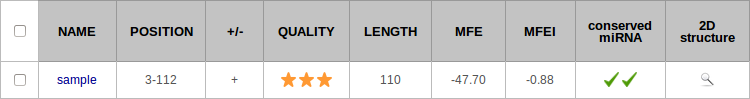
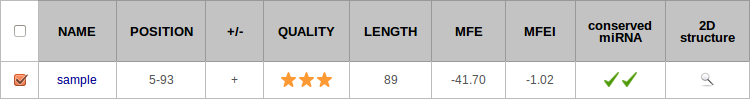
miRkwood: Fix example in help page
This reverts some of the earlier change sets

diff --git a/html/style/help.css b/html/style/help.css
@@ -79,14 +79,10 @@ p.equation {
     text-align: justify;
     padding-top: 10px;
     padding-bottom: 10px;
-    padding-left: 10px;
-    padding-right: 10px;
-    margin: 2px 30px 2px 30px;
+    padding-left: 15px;
+    padding-right: 15px;
+    margin: 2px 30px 2px 40px;
     background-color: #EEE;
-}
-
-.small {
-    font-size: 9pt;
 }
 
 div.table-of-contents{

diff --git a/html/help.php b/html/help.php
@@ -156,10 +156,10 @@ where MFE (minimal free energy) denotes the negative folding free
 
 <h2 id='results_page'>Result page</h2>
 
+<p>Results are summarized in a two-way table. Each row corresponds to a pre-miRNA, and each column to a feature. By default, results are sorted by sequence and then by position. It is possible to have them sorted by quality (<a href='#definition_quality'>see definition</a>). You can view all information related to a given prediction by clicking on the row (<a href='#html_report'>see section HTML Report</a>).</p>
+
 <img style='width:750px; display: block; margin: 0 auto;' src='style/screenshot-results-report.png'' alt='The two-way table summarizing the results' />
 
-
-<p>Results are summarized in a two-way table. Each row corresponds to a pre-miRNA, and each column to a feature. By default, results are sorted by sequence and then by position. It is possible to have them sorted by quality (<a href='#definition_quality'>see definition</a>). You can view all information related to a given prediction by clicking on the row (<a href='#html_report'>see section HTML Report</a>).</p>
 <dl>
 <dt>Name</dt>
 <dd>Name of the original sequence, as specified in the heading of the FASTA format.</dd>
@@ -231,10 +231,10 @@ given as a set of matching brackets.  A base pair between bases
 represented by dots (see more explanation on <a
 href='http://www.tbi.univie.ac.at/RNA/bracket.html'>Vienna
 website</a>).</p>
-<pre class='example small'>
->sample__3-112, stemloop structure
-gugccagguuggauuacugggcgaauacuccuauggcagaucgcauuggcuagauaugcaaguaaaaugcuucucugccaaaggagauuugccccgcaauucauccggac
-((.((.((.((((((.(.((((((((.(((((.(((((((..(((((.(((.(.....).)))..)))))...))))))).))))))))))))).).)))))).))))))
+<pre class='example'>
+>sample__5-93, stemloop structure
+gucgugccuggcucccuguaugccacaagaaaacaucgauuuaguuucaaaaucgaucacuaguggcguacagaguagucaagcaugac
+(((((((.((((((.(((((((((((.((.....((((((((.......))))))))..)).))))))))))).).))))).)))))))
 </pre>
 
 
@@ -255,7 +255,7 @@ document format is compatible with OpenOffice. See more information on
 # Note, these sequences do not represent the full primary transcript,
 # rather a predicted stem-loop portion that includes the precursor.
 
-sample   miRkwood   miRNA_primary_transcript   3   112   .   +   .   Name=preMir_sample__3-112
+sample  miRkwood  miRNA_primary_transcript  5  93  .  +  .  Name=preMir_sample__5-93
 </pre>
 
 
@@ -325,22 +325,22 @@ are shorter than the primary transcript.
 <p>All alignments with miRBase are reported and gathered according to their positions.</p>
 <div class='example'>
 <pre class='alignment'>
-query            19 gggcgaauacuccuauggcaga 40
-                    |||| ||||||||  ||||||| 
-miRBase           1 gggcaaauacuccauuggcaga 22
+query             5 ugccuggcucccuguaugcca 25
+                     |||||||||| ||||||||| 
+miRBase           1 cgccuggcuccuuguaugcca 21
 </pre>
-<span class='others'>miRBase sequences: <a href='http://mirbase.org/cgi-bin/mirna_entry.pl?acc=MIMAT0017669'>aly-miR399g-5p</a>, <a href='http://mirbase.org/cgi-bin/mirna_entry.pl?acc=MIMAT0017673'>aly-miR399i-5p</a></span>
+<span class='others'>miRBase sequence: <a href='http://mirbase.org/cgi-bin/mirna_entry.pl?acc=MIMAT0005037'>ppt-miR160h</a></span>
 </div>
 
 <p><tt>query</tt> is the user sequence, and <tt>miRBase</tt>
 designates the mature miRNA  (or the miRNA*) found in miRBase. It is possible to access the corresponding miRBAse entry by clicking on the link under the alignment. The report also indicates whether the location is validated by <a href='http://www.cs.mcgill.ca/~blanchem/mirdup/'>miRdup</a>. Finally, we provide an ASCII representation of the putative miRNA within the stem-loop  precursor.</p>
 
 <pre class='example'>
-  g  a  u      a u<span class="mature">        a     a       </span>uc-     g-   a a
-gu cc gg uggauu c <span class="mature">gggcgaau cuccu uggcaga</span>   gcauu  gcu g u
-|| || || |||||| | |||||||| ||||| |||||||   |||||  ||| | a
-ca gg cc acuuaa g cccguuua gagga accgucu   cguaa  uga c u
-  -  -  u      c c        -     a       cuu     aa   a g
+    <span class="mature">   c     - c          </span> a  aaaac        ag
+gucg<span class="mature">ugc uggcu c cuguaugcca</span>c ag     aucgauuu  u
+||||||| ||||| | ||||||||||| ||     ||||||||  u
+caguacg acuga g gacaugcggug uc     uagcuaaa  u
+       a     u a           a  ac---        ac
 </pre>
  
 </div> <!-- main full -->
